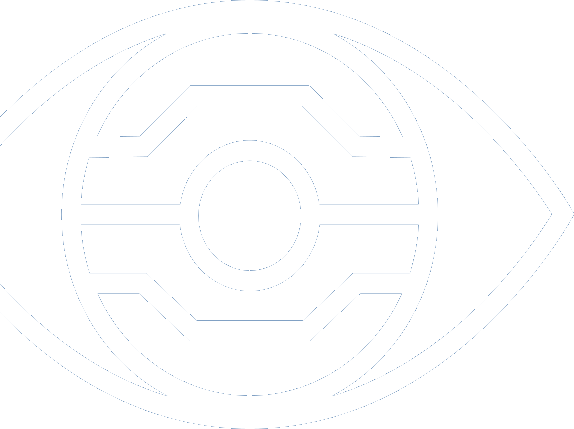
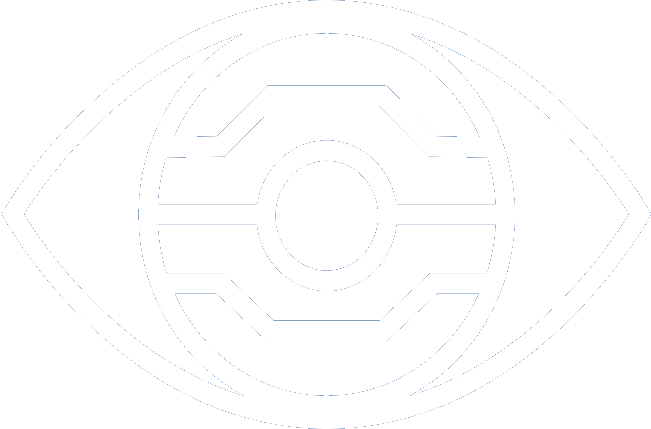
brand: reconstruct the cropped left tip of the circuit-eye artwork
Both standalone eye PNGs (navy + white) were cropped at the left canvas edge
when extracted from the brand guide — the eyelid's left point was missing
everywhere EyeMark renders (header eyebrow, hero panel, 404), obvious at
large sizes. The outer almond is symmetric, so the missing strip is rebuilt
by mirroring the intact right side around the lid-apex axis; existing pixels
(incl. the asymmetric circuit iris) untouched. 591x439 -> 665x439 and
574x429 -> 651x429; EyeMark aspect constant updated (0.743 -> 0.66).

diff --git a/web/src/components/brand/EyeMark.tsx b/web/src/components/brand/EyeMark.tsx
@@ -19,7 +19,7 @@ export function EyeMark({
   title?: string;
 }) {
   const w = size;
-  const h = Math.round(size * 0.743); // native artwork ratio 591:439
+  const h = Math.round(size * 0.66); // native artwork ratio 665:439 (left tip reconstructed)
   const mask = "url(/brand/morpheustek-eye.png)";
   return (
     <span
